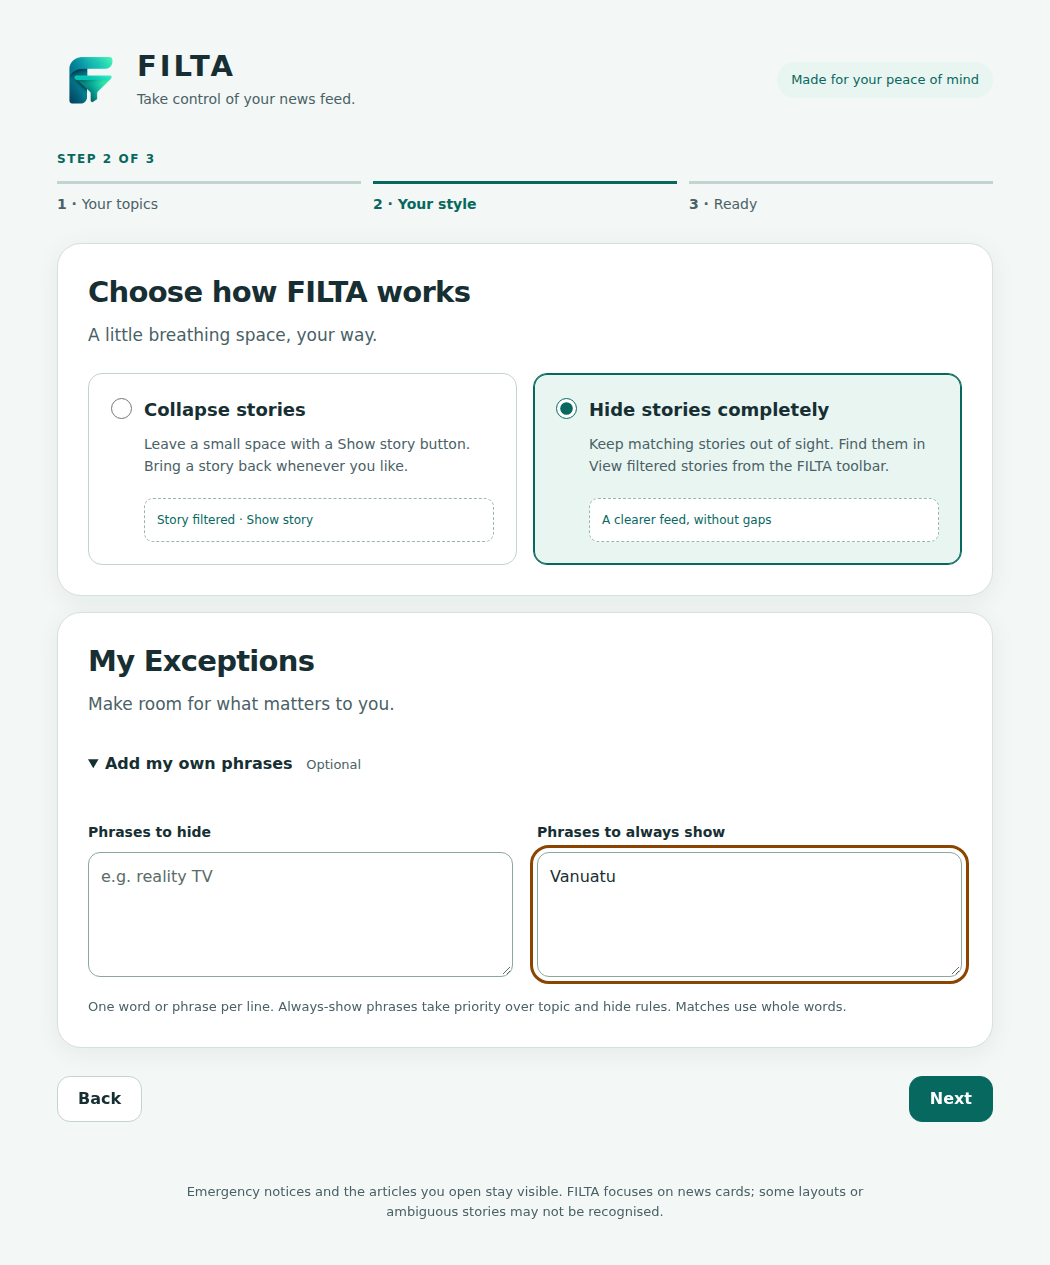
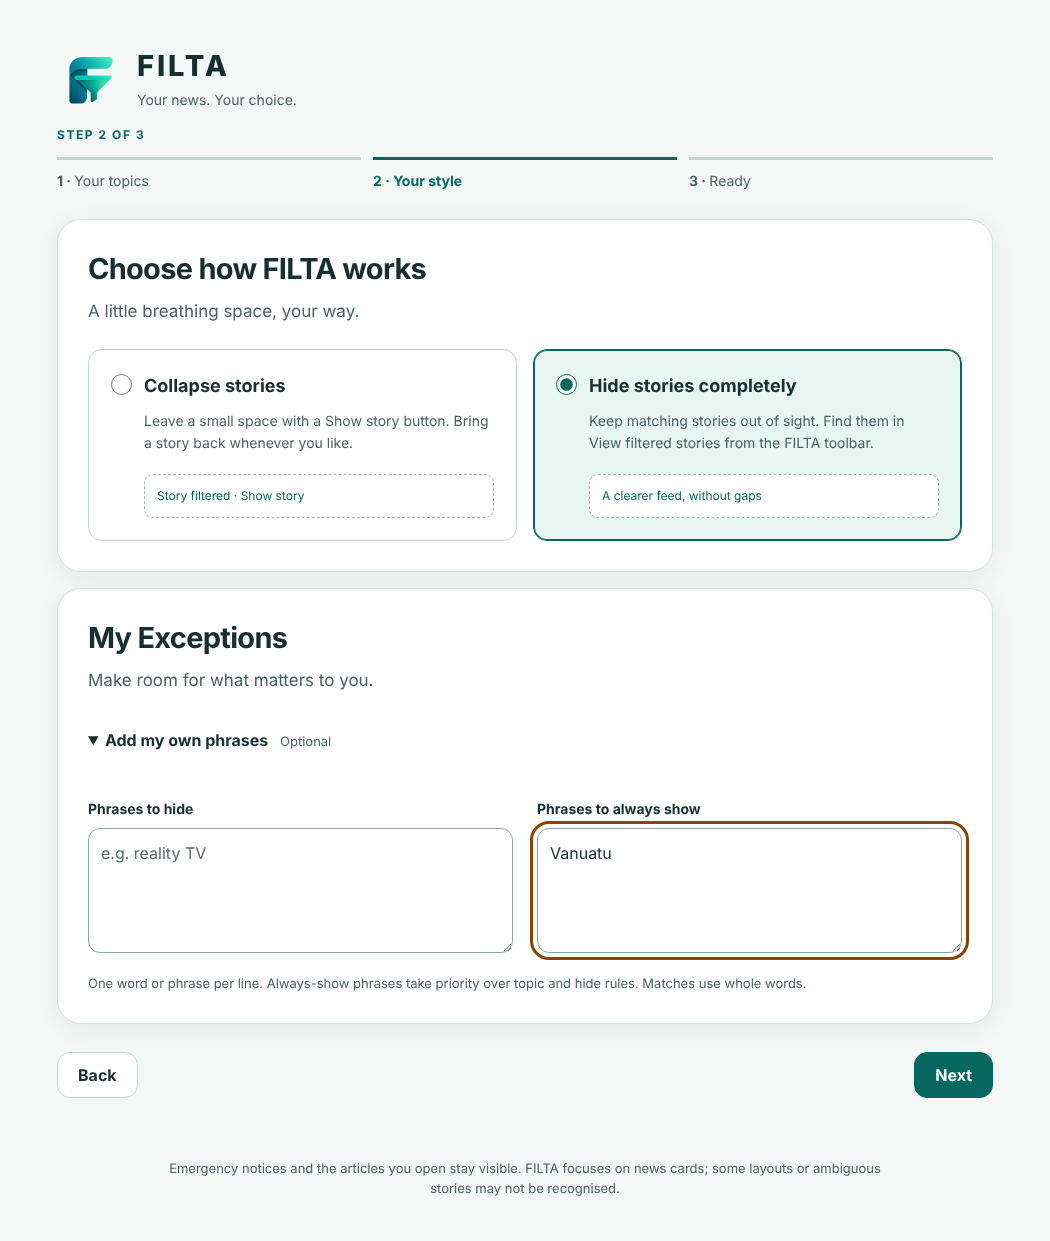
Settings header: tagline "Your news. Your choice.", tighter brand, setup button in footer
Removes "Take control of your news feed.", "Made for your peace of mind",
the "Your news. Your choice." eyebrow and the "Manage FILTA" heading.
"Run setup again" is now a plain button beside Save changes (hidden
during setup). Less space between the brand and the section tabs.

Claude-Session: https://claude.ai/code/session_01J4PDfzkBXTUoc26u9rzKNN

diff --git a/public/ui.css b/public/ui.css
@@ -1,1 +1,1 @@
-*{box-sizing:border-box} :root{color-scheme:light;--ink:#172f33;--muted:#496166;--teal:#06685f;--line:#c2d4d1;--pale:#e9f5f1;--paper:#fff;font-family:Inter,ui-sans-serif,system-ui,-apple-system,BlinkMacSystemFont,"Segoe UI",sans-serif;color:var(--ink);background:#f3f7f5;font-size:1.0rem;line-height:1.55}body{margin:0}button,input,textarea{font:inherit}button,summary,label.choice{cursor:pointer}button{min-height:46px;padding:10px 20px;border:1px solid var(--line);border-radius:13px;background:white;color:var(--ink);font-weight:650;line-height:1.4}button:hover{background:var(--pale);border-color:var(--teal)}button.primary{color:#fff;background:var(--teal);border-color:var(--teal)}button.primary:hover{background:#04544c}button.quiet{background:transparent;border-color:transparent;color:var(--teal)}button:disabled{cursor:default;background:#e5ece9;color:#53635f;border-color:#cbd6d2}button:focus-visible,input:focus-visible,textarea:focus-visible,summary:focus-visible,a:focus-visible{outline:3px solid #8b4500;outline-offset:4px}h1,h2,p{margin:0}h1{font-size:1.8125rem;letter-spacing:.1em;font-weight:800;line-height:1.2}h2{font-size:1.8125rem;letter-spacing:-.025em;line-height:1.3}h2:focus{outline:none}h2:focus-visible{outline:2px solid var(--teal);outline-offset:5px}p{margin-top:12px}.column{max-width:1000px;margin:0 auto;padding:48px 32px 28px}.brand{display:flex;gap:16px;align-items:center;margin-bottom:38px}.brand img{object-fit:contain;flex-shrink:0}.brand .tag{font-size:0.875rem;margin:5px 0 0;color:var(--muted)}.local-badge{margin-left:auto;font-size:0.8125rem;color:var(--teal);background:var(--pale);padding:8px 14px;border-radius:30px}.eyebrow{text-transform:uppercase;letter-spacing:.13em;font-size:0.75rem;font-weight:750;color:var(--teal);margin:0 0 12px}.steps{display:flex;gap:12px;list-style:none;padding:0;margin:0 0 28px;counter-reset:step}.steps li{counter-increment:step;flex:1;border-top:3px solid var(--line);padding-top:10px;font-size:0.875rem;color:var(--muted)}.steps li:before{content:counter(step) " · ";font-weight:700}.steps li[aria-current]{border-color:var(--teal);color:var(--teal);font-weight:700}.panel{border:1px solid #d4e1dc;background:var(--paper);border-radius:24px;padding:30px;margin:0 0 16px;box-shadow:0 5px 24px #123d3110}.intro{color:var(--muted);margin:10px 0 25px;font-size:1.0625rem}.controls,fieldset{border:0;padding:0;margin:0;min-width:0}.choices{display:grid;grid-template-columns:repeat(3,minmax(0,1fr));gap:12px}.choice{display:flex;align-items:center;gap:12px;padding:15px;border:1px solid var(--line);border-radius:14px;min-height:62px;background:#fff}.choice:has(input:checked){border-color:var(--teal);background:var(--pale);box-shadow:inset 0 0 0 1px var(--teal)}.choice input{accent-color:var(--teal);width:21px;height:21px;flex-shrink:0;margin:0}.choice strong{display:block;font-size:0.9375rem}.choice .description{display:block;font-size:0.75rem;color:var(--muted);margin-top:3px}.mode-cards{display:grid;grid-template-columns:1fr 1fr;gap:16px}.mode-card{align-items:flex-start;padding:22px}.mode-card input{margin-top:2px}.mode-card strong{font-size:1.125rem;margin-bottom:10px}.mode-card span span{display:block;font-size:0.875rem;color:var(--muted)}.mode-card .preview{background:white;border:1px dashed #9ab6ad;border-radius:9px;padding:12px;margin-top:20px;font-size:0.75rem;color:var(--teal)}.hint,.note{font-size:0.8125rem;color:var(--muted)}.hint{margin-top:14px}.note{max-width:720px;margin:14px auto;text-align:center}.two{display:grid;grid-template-columns:1fr 1fr;gap:24px;margin:20px 0}.field-label{display:block;font-size:0.875rem;font-weight:650;margin:14px 0 8px}textarea{display:block;width:100%;resize:vertical;border:1px solid #8ba7a0;border-radius:12px;padding:12px;color:var(--ink);background:white;min-height:90px}textarea::placeholder{color:#5b6b68}details summary{min-height:46px;padding:10px 0;font-weight:650}summary .hint{margin-left:8px;font-weight:400}.footer{display:flex;gap:12px;align-items:center;padding:12px 0}.spacer{flex:1}.status{min-height:24px;color:var(--teal);font-size:0.875rem;margin:10px 0;overflow-wrap:anywhere}.status[data-error=true]{color:#a02424}.hub-heading{display:flex;justify-content:space-between;align-items:center;gap:12px;margin-bottom:22px}#hub-nav{display:flex;flex-wrap:wrap;gap:6px;margin-bottom:24px}#hub-nav button{font-size:0.8125rem;padding:10px 14px;background:transparent;border-color:transparent}#hub-nav button[aria-current]{background:var(--teal);color:#fff}.ready-mark{border-radius:50%;width:52px;height:52px;background:var(--pale);color:var(--teal);display:grid;place-items:center;font-size:1.75rem;margin-bottom:18px}.summary{margin:24px 0;display:grid;grid-template-columns:130px 1fr;gap:14px}.summary dt{color:var(--muted);font-size:0.875rem}.summary dd{margin:0;font-weight:600;font-size:0.9375rem;overflow-wrap:anywhere}.privacy{background:var(--pale);border-radius:14px;padding:18px 22px}.privacy p{font-size:0.875rem;margin-top:5px}.sr-only{position:absolute;width:1px;height:1px;padding:0;margin:-1px;overflow:hidden;clip:rect(0,0,0,0);white-space:nowrap;border:0}.skip{position:absolute;top:-100px;left:12px;padding:12px;background:white;color:var(--teal);z-index:2}.skip:focus{top:8px}.full{display:block;width:100%;margin-top:10px}.popup{width:360px;max-width:100vw;padding:22px;font-size:0.875rem;background:#f3f7f5}.popup .brand{gap:12px;margin-bottom:22px}.popup h1{font-size:1.5625rem}.popup .tag{font-size:0.6875rem}.popup .panel{padding:20px;border-radius:20px}.site-line{display:flex;align-items:center;gap:8px}.site{font-size:1.0rem;overflow-wrap:anywhere}.indicator{width:9px;height:9px;background:#677775;border-radius:50%;flex-shrink:0}.indicator[data-active=true]{background:var(--teal)}.help{font-size:0.8125rem;color:var(--muted);margin-top:10px}.counter{display:flex;gap:16px;align-items:center;padding:22px 0}.counter strong{font-size:3.5rem;line-height:1;color:var(--teal);letter-spacing:-.05em}.counter span{font-size:0.875rem}.counter .hint{display:block;font-size:0.75rem;margin-top:2px}.popup .status:empty{display:none}.popup button{font-size:0.875rem}.popup .quiet{color:var(--teal)}[hidden]{display:none!important}@media(max-width:700px){.column{padding:24px 18px}.brand{margin-bottom:26px}.local-badge{display:none}.choices{grid-template-columns:repeat(2,minmax(0,1fr))}.panel{padding:22px}.two,.mode-cards{grid-template-columns:1fr}.hub-heading{align-items:flex-start}h2{font-size:1.5625rem}}@media(max-width:410px){.choices{grid-template-columns:1fr}.footer{flex-wrap:wrap}.summary{grid-template-columns:1fr;gap:6px}.summary dd{margin-bottom:12px}.popup{padding:16px}.popup .brand .tag{font-size:0.6875rem}}@media(prefers-reduced-motion:reduce){*,*:before,*:after{animation:none!important;transition:none!important;scroll-behavior:auto!important}}@media(forced-colors:active){.choice:has(input:checked){outline:2px solid Highlight}button.primary{border:2px solid ButtonText}}
+*{box-sizing:border-box} :root{color-scheme:light;--ink:#172f33;--muted:#496166;--teal:#06685f;--line:#c2d4d1;--pale:#e9f5f1;--paper:#fff;font-family:Inter,ui-sans-serif,system-ui,-apple-system,BlinkMacSystemFont,"Segoe UI",sans-serif;color:var(--ink);background:#f3f7f5;font-size:1.0rem;line-height:1.55}body{margin:0}button,input,textarea{font:inherit}button,summary,label.choice{cursor:pointer}button{min-height:46px;padding:10px 20px;border:1px solid var(--line);border-radius:13px;background:white;color:var(--ink);font-weight:650;line-height:1.4}button:hover{background:var(--pale);border-color:var(--teal)}button.primary{color:#fff;background:var(--teal);border-color:var(--teal)}button.primary:hover{background:#04544c}button.quiet{background:transparent;border-color:transparent;color:var(--teal)}button:disabled{cursor:default;background:#e5ece9;color:#53635f;border-color:#cbd6d2}button:focus-visible,input:focus-visible,textarea:focus-visible,summary:focus-visible,a:focus-visible{outline:3px solid #8b4500;outline-offset:4px}h1,h2,p{margin:0}h1{font-size:1.8125rem;letter-spacing:.1em;font-weight:800;line-height:1.2}h2{font-size:1.8125rem;letter-spacing:-.025em;line-height:1.3}h2:focus{outline:none}h2:focus-visible{outline:2px solid var(--teal);outline-offset:5px}p{margin-top:12px}.column{max-width:1000px;margin:0 auto;padding:48px 32px 28px}.brand{display:flex;gap:16px;align-items:center;margin-bottom:14px}.brand img{object-fit:contain;flex-shrink:0}.brand .tag{font-size:0.875rem;margin:5px 0 0;color:var(--muted)}.local-badge{margin-left:auto;font-size:0.8125rem;color:var(--teal);background:var(--pale);padding:8px 14px;border-radius:30px}.eyebrow{text-transform:uppercase;letter-spacing:.13em;font-size:0.75rem;font-weight:750;color:var(--teal);margin:0 0 12px}.steps{display:flex;gap:12px;list-style:none;padding:0;margin:0 0 28px;counter-reset:step}.steps li{counter-increment:step;flex:1;border-top:3px solid var(--line);padding-top:10px;font-size:0.875rem;color:var(--muted)}.steps li:before{content:counter(step) " · ";font-weight:700}.steps li[aria-current]{border-color:var(--teal);color:var(--teal);font-weight:700}.panel{border:1px solid #d4e1dc;background:var(--paper);border-radius:24px;padding:30px;margin:0 0 16px;box-shadow:0 5px 24px #123d3110}.intro{color:var(--muted);margin:10px 0 25px;font-size:1.0625rem}.controls,fieldset{border:0;padding:0;margin:0;min-width:0}.choices{display:grid;grid-template-columns:repeat(3,minmax(0,1fr));gap:12px}.choice{display:flex;align-items:center;gap:12px;padding:15px;border:1px solid var(--line);border-radius:14px;min-height:62px;background:#fff}.choice:has(input:checked){border-color:var(--teal);background:var(--pale);box-shadow:inset 0 0 0 1px var(--teal)}.choice input{accent-color:var(--teal);width:21px;height:21px;flex-shrink:0;margin:0}.choice strong{display:block;font-size:0.9375rem}.choice .description{display:block;font-size:0.75rem;color:var(--muted);margin-top:3px}.mode-cards{display:grid;grid-template-columns:1fr 1fr;gap:16px}.mode-card{align-items:flex-start;padding:22px}.mode-card input{margin-top:2px}.mode-card strong{font-size:1.125rem;margin-bottom:10px}.mode-card span span{display:block;font-size:0.875rem;color:var(--muted)}.mode-card .preview{background:white;border:1px dashed #9ab6ad;border-radius:9px;padding:12px;margin-top:20px;font-size:0.75rem;color:var(--teal)}.hint,.note{font-size:0.8125rem;color:var(--muted)}.hint{margin-top:14px}.note{max-width:720px;margin:14px auto;text-align:center}.two{display:grid;grid-template-columns:1fr 1fr;gap:24px;margin:20px 0}.field-label{display:block;font-size:0.875rem;font-weight:650;margin:14px 0 8px}textarea{display:block;width:100%;resize:vertical;border:1px solid #8ba7a0;border-radius:12px;padding:12px;color:var(--ink);background:white;min-height:90px}textarea::placeholder{color:#5b6b68}details summary{min-height:46px;padding:10px 0;font-weight:650}summary .hint{margin-left:8px;font-weight:400}.footer{display:flex;gap:12px;align-items:center;padding:12px 0}.spacer{flex:1}.status{min-height:24px;color:var(--teal);font-size:0.875rem;margin:10px 0;overflow-wrap:anywhere}.status[data-error=true]{color:#a02424}.hub-heading{display:flex;justify-content:space-between;align-items:center;gap:12px;margin-bottom:22px}#hub-nav{display:flex;flex-wrap:wrap;gap:6px;margin-bottom:24px}#hub-nav button{font-size:0.8125rem;padding:10px 14px;background:transparent;border-color:transparent}#hub-nav button[aria-current]{background:var(--teal);color:#fff}.ready-mark{border-radius:50%;width:52px;height:52px;background:var(--pale);color:var(--teal);display:grid;place-items:center;font-size:1.75rem;margin-bottom:18px}.summary{margin:24px 0;display:grid;grid-template-columns:130px 1fr;gap:14px}.summary dt{color:var(--muted);font-size:0.875rem}.summary dd{margin:0;font-weight:600;font-size:0.9375rem;overflow-wrap:anywhere}.privacy{background:var(--pale);border-radius:14px;padding:18px 22px}.privacy p{font-size:0.875rem;margin-top:5px}.sr-only{position:absolute;width:1px;height:1px;padding:0;margin:-1px;overflow:hidden;clip:rect(0,0,0,0);white-space:nowrap;border:0}.skip{position:absolute;top:-100px;left:12px;padding:12px;background:white;color:var(--teal);z-index:2}.skip:focus{top:8px}.full{display:block;width:100%;margin-top:10px}.popup{width:360px;max-width:100vw;padding:22px;font-size:0.875rem;background:#f3f7f5}.popup .brand{gap:12px;margin-bottom:22px}.popup h1{font-size:1.5625rem}.popup .tag{font-size:0.6875rem}.popup .panel{padding:20px;border-radius:20px}.site-line{display:flex;align-items:center;gap:8px}.site{font-size:1.0rem;overflow-wrap:anywhere}.indicator{width:9px;height:9px;background:#677775;border-radius:50%;flex-shrink:0}.indicator[data-active=true]{background:var(--teal)}.help{font-size:0.8125rem;color:var(--muted);margin-top:10px}.counter{display:flex;gap:16px;align-items:center;padding:22px 0}.counter strong{font-size:3.5rem;line-height:1;color:var(--teal);letter-spacing:-.05em}.counter span{font-size:0.875rem}.counter .hint{display:block;font-size:0.75rem;margin-top:2px}.popup .status:empty{display:none}.popup button{font-size:0.875rem}.popup .quiet{color:var(--teal)}[hidden]{display:none!important}@media(max-width:700px){.column{padding:24px 18px}.brand{margin-bottom:12px}.local-badge{display:none}.choices{grid-template-columns:repeat(2,minmax(0,1fr))}.panel{padding:22px}.two,.mode-cards{grid-template-columns:1fr}.hub-heading{align-items:flex-start}h2{font-size:1.5625rem}}@media(max-width:410px){.choices{grid-template-columns:1fr}.footer{flex-wrap:wrap}.summary{grid-template-columns:1fr;gap:6px}.summary dd{margin-bottom:12px}.popup{padding:16px}.popup .brand .tag{font-size:0.6875rem}}@media(prefers-reduced-motion:reduce){*,*:before,*:after{animation:none!important;transition:none!important;scroll-behavior:auto!important}}@media(forced-colors:active){.choice:has(input:checked){outline:2px solid Highlight}button.primary{border:2px solid ButtonText}}

diff --git a/public/settings.html b/public/settings.html
@@ -1,11 +1,11 @@
 <!doctype html>
 <html lang="en"><head><meta charset="utf-8"><meta name="viewport" content="width=device-width,initial-scale=1"><title>Manage FILTA</title><link rel="icon" href="icons/icon-32.png"><link rel="stylesheet" href="ui.css"></head>
 <body><a class="skip" href="#workspace">Skip to settings</a><main class="column">
-<header class="brand"><img src="icons/logo.png" width="64" height="64" alt=""><div><h1>FILTA</h1><p class="tag">Take control of your news feed.</p></div><span class="local-badge">Made for your peace of mind</span></header>
+<header class="brand"><img src="icons/logo.png" width="64" height="64" alt=""><div><h1>FILTA</h1><p class="tag">Your news. Your choice.</p></div></header>
 <div id="loading" role="status">Loading your preferences…</div>
 <div id="workspace" tabindex="-1" hidden>
 <div id="wizard-header" hidden><p class="eyebrow" id="step-label">Step 1 of 3</p><ol class="steps" aria-label="Setup progress"><li aria-current="step">Your topics</li><li>Your style</li><li>Ready</li></ol></div>
-<div id="hub-header" hidden><p class="eyebrow">Your news. Your choice.</p><div class="hub-heading"><h2>Manage FILTA</h2><button id="restart" type="button" class="quiet">Run setup again</button></div><nav id="hub-nav" aria-label="Settings sections"><button type="button" data-section="topics" aria-current="page">My Topics</button><button type="button" data-section="behaviour">How FILTA Filters</button><button type="button" data-section="exceptions">My Exceptions</button><button type="button" data-section="websites">Website Controls</button><button type="button" data-section="advanced">Advanced & Diagnostics</button></nav></div>
+<div id="hub-header" hidden><nav id="hub-nav" aria-label="Settings sections"><button type="button" data-section="topics" aria-current="page">My Topics</button><button type="button" data-section="behaviour">How FILTA Filters</button><button type="button" data-section="exceptions">My Exceptions</button><button type="button" data-section="websites">Website Controls</button><button type="button" data-section="advanced">Advanced & Diagnostics</button></nav></div>
 <form id="preferences"><fieldset id="controls" disabled class="controls"><legend class="sr-only">FILTA preferences</legend>
 <section id="topics" class="panel"><h2 id="page-title" tabindex="-1">Choose your topics</h2><p class="intro">What would you like to see less of? Pick as many or as few as you like.</p><fieldset><legend class="sr-only">Topics to filter</legend><div id="categories" class="choices"></div></fieldset><p class="hint">Nothing selected? That’s fine — FILTA follows your lead.</p></section>
 <section id="behaviour" class="panel" hidden><h2 tabindex="-1">Choose how FILTA works</h2><p class="intro">A little breathing space, your way.</p><fieldset><legend class="sr-only">How matching stories appear</legend><div class="mode-cards"><label class="choice mode-card"><input id="collapse" type="radio" name="mode" value="collapse"><span><strong>Collapse stories</strong><span>Leave a small space with a Show story button. Bring a story back whenever you like.</span><span class="preview">Story filtered · Show story</span></span></label><label class="choice mode-card"><input id="hide" type="radio" name="mode" value="hide"><span><strong>Hide stories completely</strong><span>Keep matching stories out of sight. Find them in View filtered stories from the FILTA toolbar.</span><span class="preview">A clearer feed, without gaps</span></span></label></div></fieldset></section>
@@ -13,7 +13,7 @@
 <section id="websites" class="panel" hidden><h2 tabindex="-1">Website Controls</h2><p class="intro">Choose where FILTA lends a hand.</p><label class="choice"><input id="enabled" type="checkbox">Enable filtering across websites</label><div class="two"><div><label class="field-label" for="disabledDomains">Paused websites</label><textarea id="disabledDomains" rows="4" placeholder="e.g. example.com"></textarea><p class="hint">One domain per line, including its subdomains. Remove it to resume. You can also pause from the toolbar.</p></div><div><label class="field-label" for="enabledDomains">Additional websites</label><textarea id="enabledDomains" rows="4" placeholder="e.g. example.com"></textarea><p class="hint">News publishers are recognised automatically. Add other sites here to try news-card detection.</p></div></div></section>
 <section id="advanced" class="panel" hidden><h2 tabindex="-1">Advanced Settings & Diagnostics</h2><p class="intro">Fine-tune individual stories and inspect filtering decisions.</p><div class="two"><div><label class="field-label" for="alwaysShowUrls">Always show these story URLs</label><textarea id="alwaysShowUrls" rows="4"></textarea></div><div><label class="field-label" for="blockedUrls">Hide these story URLs</label><textarea id="blockedUrls" rows="4"></textarea></div></div><p class="hint">One full HTTP(S) address per line. Query strings and fragments are ignored. Always-show URLs take priority.</p><label class="choice"><input id="debug" type="checkbox">Show card outlines and classification scores in story review</label><p class="hint">Open View filtered stories in the toolbar to inspect matches. Uncertain cards stay visible.</p></section>
 <section id="ready" class="panel" hidden><div class="ready-mark" aria-hidden="true">✓</div><h2 tabindex="-1">Ready to FILTA</h2><p class="intro">A news feed with more room for you.</p><dl id="summary" class="summary"></dl><div class="privacy"><strong>Private by design</strong><p>Filtering happens locally in this browser. No account, analytics or AI service. Your choices stay on this device.</p></div></section>
-<div class="footer"><button id="back" type="button" hidden>Back</button><button id="cancel" type="button" class="quiet" hidden>Cancel setup</button><span class="spacer"></span><button id="next" type="button" class="primary" hidden>Next</button><button id="save" class="primary" type="submit" disabled>Save changes</button></div>
+<div class="footer"><button id="back" type="button" hidden>Back</button><button id="cancel" type="button" class="quiet" hidden>Cancel setup</button><span class="spacer"></span><button id="next" type="button" class="primary" hidden>Next</button><button id="restart" type="button" hidden>Run setup again</button><button id="save" class="primary" type="submit" disabled>Save changes</button></div>
 </fieldset></form><p id="status" class="status" role="status" aria-live="polite" aria-atomic="true"></p>
 <p class="note">Emergency notices and the articles you open stay visible. FILTA focuses on news cards; some layouts or ambiguous stories may not be recognised.</p>
 </div></main><script src="settings.js"></script></body></html>

diff --git a/src/ui/settings.ts b/src/ui/settings.ts
@@ -59,7 +59,7 @@ function summary() {
   ] as [string, string][])) { const dt = document.createElement('dt'), dd = document.createElement('dd'); dt.textContent = key; dd.textContent = value; list.append(dt, dd); }
 }
 function draw(focus = false) {
-  element('wizard-header').hidden = !wizard; element('hub-header').hidden = wizard;
+  element('wizard-header').hidden = !wizard; element('hub-header').hidden = wizard; element('restart').hidden = wizard;
   const visible = wizard ? step === 0 ? ['topics'] : step === 1 ? ['behaviour', 'exceptions'] : ['ready'] : [section];
   for (const id of ['topics', 'behaviour', 'exceptions', 'websites', 'advanced', 'ready']) element(id).hidden = !visible.includes(id);
   element('step-label').textContent = `Step ${step + 1} of 3`;
